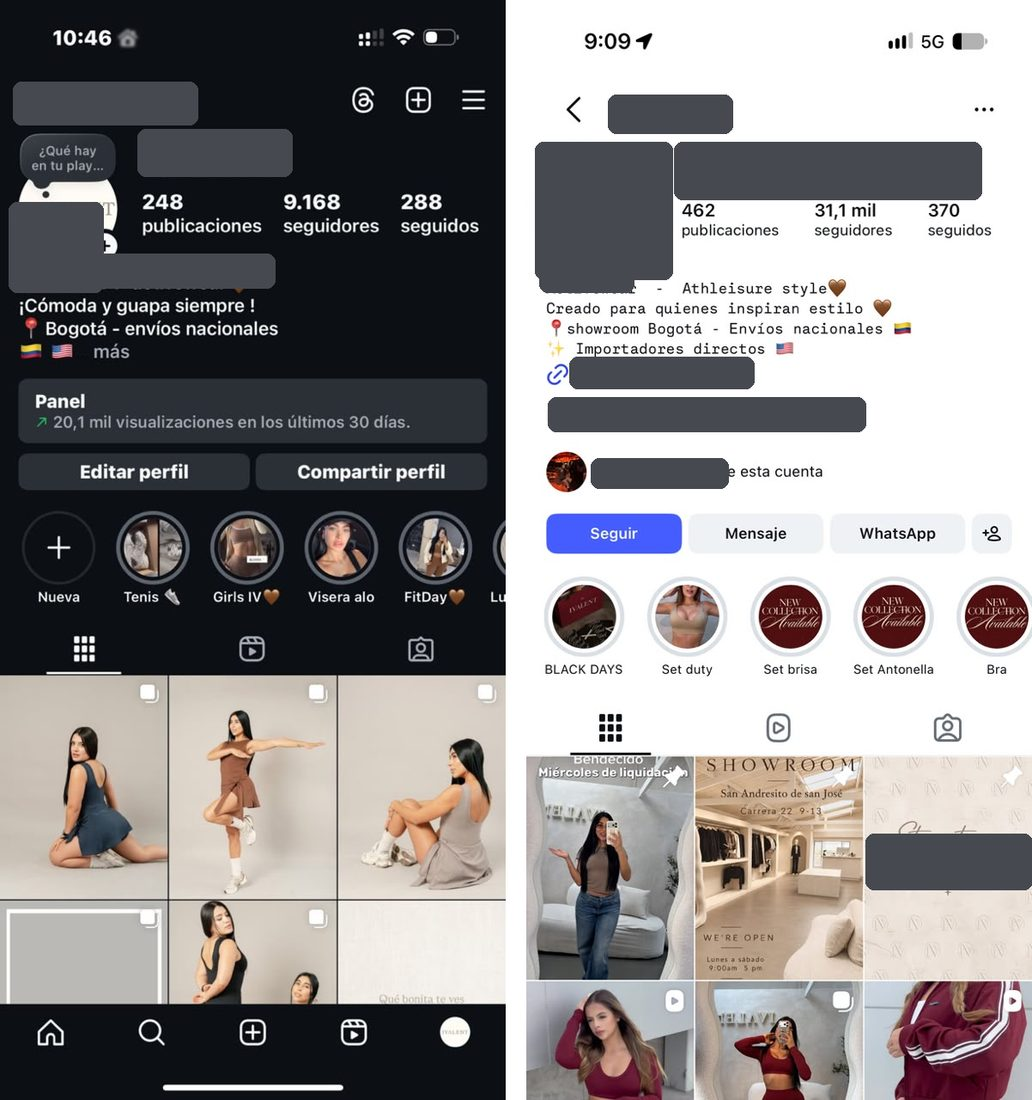
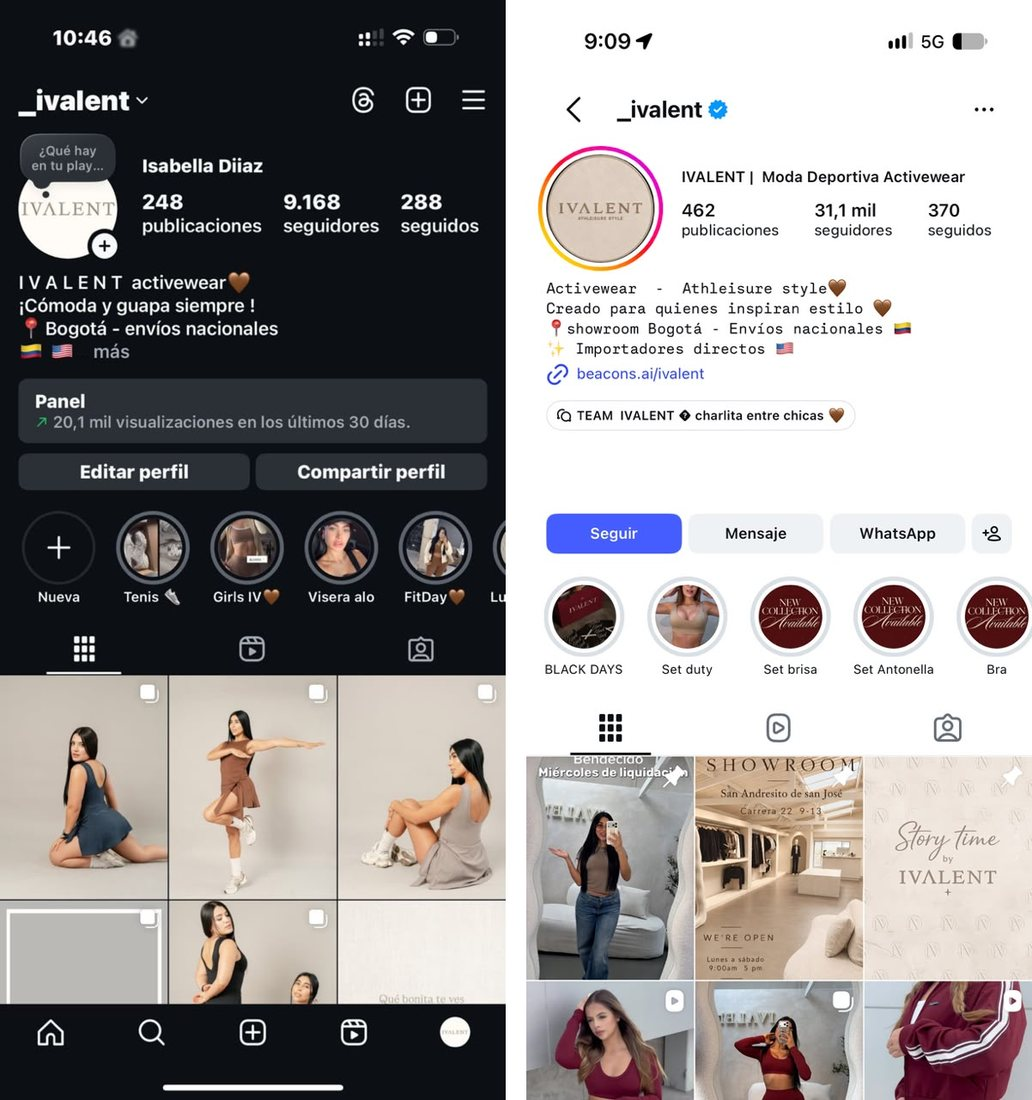
Carrusel: IVALENT antes y después sin tapar el perfil (pedido de Juanca) (#6)
Claude-Session: https://claude.ai/code/session_01WA3Qa2ei6ae4Box3kafeyR

diff --git a/index.html b/index.html
@@ -116,7 +116,7 @@
     <h2 class="heading-3 reveal" style="text-align:center;margin-bottom:var(--space-md);">Resultados reales<br/>de nuestros clientes</h2>
     <p class="body-text reveal" style="text-align:center;max-width:560px;margin:0 auto var(--space-2xl);">Capturas de conversaciones y reportes de ventas. Toca una para verla en grande.</p>
   </div>
-  <div class="stories-wrapper"><div class="stories-track" id="storiesTrack"><button class="story-item" type="button" data-full="/assets/historias/ivalent.jpg" aria-label="Ampliar historia de éxito"><img src="/assets/historias/ivalent.jpg" alt="Antes y después del perfil de Instagram de un cliente de ropa deportiva: de 9.168 a 31,1 mil seguidores" width="1032" height="1100" decoding="async"/></button><button class="story-item" type="button" data-full="/assets/historias/graficas.jpg" aria-label="Ampliar historia de éxito"><img src="/assets/historias/graficas.jpg" alt="Gráficas de inversión frente a ventas en 2026 de clientes reales" width="1762" height="700" decoding="async"/></button><button class="story-item" type="button" data-full="/assets/historias/h03.jpg" aria-label="Ampliar historia de éxito"><img src="/assets/historias/h03.jpg" alt="Captura real de resultados de ventas de un cliente" width="858" height="1100" decoding="async"/></button><button class="story-item" type="button" data-full="/assets/historias/h04.jpg" aria-label="Ampliar historia de éxito"><img src="/assets/historias/h04.jpg" alt="Captura real de resultados de ventas de un cliente" width="625" height="1100" decoding="async"/></button><button class="story-item" type="button" data-full="/assets/historias/h05.jpg" aria-label="Ampliar historia de éxito"><img src="/assets/historias/h05.jpg" alt="Captura real de resultados de ventas de un cliente" width="507" height="1100" decoding="async"/></button><button class="story-item" type="button" data-full="/assets/historias/h06.jpg" aria-label="Ampliar historia de éxito"><img src="/assets/historias/h06.jpg" alt="Captura real de resultados de ventas de un cliente" width="507" height="1100" decoding="async"/></button><button class="story-item" type="button" data-full="/assets/historias/h07.jpg" aria-label="Ampliar historia de éxito"><img src="/assets/historias/h07.jpg" alt="Captura real de resultados de ventas de un cliente" width="507" height="1100" decoding="async"/></button><button class="story-item" type="button" data-full="/assets/historias/h08.jpg" aria-label="Ampliar historia de éxito"><img src="/assets/historias/h08.jpg" alt="Captura real de resultados de ventas de un cliente" width="507" height="1100" decoding="async"/></button><button class="story-item" type="button" data-full="/assets/historias/h09.jpg" aria-label="Ampliar historia de éxito"><img src="/assets/historias/h09.jpg" alt="Captura real de resultados de ventas de un cliente" width="507" height="1100" decoding="async"/></button><button class="story-item" type="button" data-full="/assets/historias/h10.jpg" aria-label="Ampliar historia de éxito"><img src="/assets/historias/h10.jpg" alt="Captura real de resultados de ventas de un cliente" width="507" height="1100" decoding="async"/></button><button class="story-item" type="button" data-full="/assets/historias/h11.jpg" aria-label="Ampliar historia de éxito"><img src="/assets/historias/h11.jpg" alt="Captura real de resultados de ventas de un cliente" width="787" height="1100" decoding="async"/></button><button class="story-item" type="button" data-full="/assets/historias/pa.jpg" aria-label="Ampliar historia de éxito"><img src="/assets/historias/pa.jpg" alt="Captura real de resultados de ventas de un cliente" width="676" height="1100" decoding="async"/></button><button class="story-item" type="button" data-full="/assets/historias/pb.jpg" aria-label="Ampliar historia de éxito"><img src="/assets/historias/pb.jpg" alt="Captura real de resultados de ventas de un cliente" width="676" height="1100" decoding="async"/></button><button class="story-item" type="button" data-full="/assets/historias/pc.jpg" aria-label="Ampliar historia de éxito"><img src="/assets/historias/pc.jpg" alt="Captura real de resultados de ventas de un cliente" width="676" height="1100" decoding="async"/></button><button class="story-item" type="button" data-full="/assets/historias/pd.jpg" aria-label="Ampliar historia de éxito"><img src="/assets/historias/pd.jpg" alt="Captura real de resultados de ventas de un cliente" width="676" height="1100" decoding="async"/></button><button class="story-item" type="button" data-full="/assets/historias/pe.jpg" aria-label="Ampliar historia de éxito"><img src="/assets/historias/pe.jpg" alt="Captura real de resultados de ventas de un cliente" width="676" height="1100" decoding="async"/></button><button class="story-item" type="button" data-full="/assets/historias/pf.jpg" aria-label="Ampliar historia de éxito"><img src="/assets/historias/pf.jpg" alt="Captura real de resultados de ventas de un cliente" width="676" height="1100" decoding="async"/></button><button class="story-item" type="button" data-full="/assets/historias/pg.jpg" aria-label="Ampliar historia de éxito"><img src="/assets/historias/pg.jpg" alt="Captura real de resultados de ventas de un cliente" width="676" height="1100" decoding="async"/></button><button class="story-item" type="button" data-full="/assets/historias/ph.jpg" aria-label="Ampliar historia de éxito"><img src="/assets/historias/ph.jpg" alt="Captura real de resultados de ventas de un cliente" width="676" height="1100" decoding="async"/></button></div></div>
+  <div class="stories-wrapper"><div class="stories-track" id="storiesTrack"><button class="story-item" type="button" data-full="/assets/historias/ivalent.jpg" aria-label="Ampliar historia de éxito"><img src="/assets/historias/ivalent.jpg" alt="Antes y después del perfil de Instagram de IVALENT: de 9.168 a 31,1 mil seguidores" width="1032" height="1100" decoding="async"/></button><button class="story-item" type="button" data-full="/assets/historias/graficas.jpg" aria-label="Ampliar historia de éxito"><img src="/assets/historias/graficas.jpg" alt="Gráficas de inversión frente a ventas en 2026 de clientes reales" width="1762" height="700" decoding="async"/></button><button class="story-item" type="button" data-full="/assets/historias/h03.jpg" aria-label="Ampliar historia de éxito"><img src="/assets/historias/h03.jpg" alt="Captura real de resultados de ventas de un cliente" width="858" height="1100" decoding="async"/></button><button class="story-item" type="button" data-full="/assets/historias/h04.jpg" aria-label="Ampliar historia de éxito"><img src="/assets/historias/h04.jpg" alt="Captura real de resultados de ventas de un cliente" width="625" height="1100" decoding="async"/></button><button class="story-item" type="button" data-full="/assets/historias/h05.jpg" aria-label="Ampliar historia de éxito"><img src="/assets/historias/h05.jpg" alt="Captura real de resultados de ventas de un cliente" width="507" height="1100" decoding="async"/></button><button class="story-item" type="button" data-full="/assets/historias/h06.jpg" aria-label="Ampliar historia de éxito"><img src="/assets/historias/h06.jpg" alt="Captura real de resultados de ventas de un cliente" width="507" height="1100" decoding="async"/></button><button class="story-item" type="button" data-full="/assets/historias/h07.jpg" aria-label="Ampliar historia de éxito"><img src="/assets/historias/h07.jpg" alt="Captura real de resultados de ventas de un cliente" width="507" height="1100" decoding="async"/></button><button class="story-item" type="button" data-full="/assets/historias/h08.jpg" aria-label="Ampliar historia de éxito"><img src="/assets/historias/h08.jpg" alt="Captura real de resultados de ventas de un cliente" width="507" height="1100" decoding="async"/></button><button class="story-item" type="button" data-full="/assets/historias/h09.jpg" aria-label="Ampliar historia de éxito"><img src="/assets/historias/h09.jpg" alt="Captura real de resultados de ventas de un cliente" width="507" height="1100" decoding="async"/></button><button class="story-item" type="button" data-full="/assets/historias/h10.jpg" aria-label="Ampliar historia de éxito"><img src="/assets/historias/h10.jpg" alt="Captura real de resultados de ventas de un cliente" width="507" height="1100" decoding="async"/></button><button class="story-item" type="button" data-full="/assets/historias/h11.jpg" aria-label="Ampliar historia de éxito"><img src="/assets/historias/h11.jpg" alt="Captura real de resultados de ventas de un cliente" width="787" height="1100" decoding="async"/></button><button class="story-item" type="button" data-full="/assets/historias/pa.jpg" aria-label="Ampliar historia de éxito"><img src="/assets/historias/pa.jpg" alt="Captura real de resultados de ventas de un cliente" width="676" height="1100" decoding="async"/></button><button class="story-item" type="button" data-full="/assets/historias/pb.jpg" aria-label="Ampliar historia de éxito"><img src="/assets/historias/pb.jpg" alt="Captura real de resultados de ventas de un cliente" width="676" height="1100" decoding="async"/></button><button class="story-item" type="button" data-full="/assets/historias/pc.jpg" aria-label="Ampliar historia de éxito"><img src="/assets/historias/pc.jpg" alt="Captura real de resultados de ventas de un cliente" width="676" height="1100" decoding="async"/></button><button class="story-item" type="button" data-full="/assets/historias/pd.jpg" aria-label="Ampliar historia de éxito"><img src="/assets/historias/pd.jpg" alt="Captura real de resultados de ventas de un cliente" width="676" height="1100" decoding="async"/></button><button class="story-item" type="button" data-full="/assets/historias/pe.jpg" aria-label="Ampliar historia de éxito"><img src="/assets/historias/pe.jpg" alt="Captura real de resultados de ventas de un cliente" width="676" height="1100" decoding="async"/></button><button class="story-item" type="button" data-full="/assets/historias/pf.jpg" aria-label="Ampliar historia de éxito"><img src="/assets/historias/pf.jpg" alt="Captura real de resultados de ventas de un cliente" width="676" height="1100" decoding="async"/></button><button class="story-item" type="button" data-full="/assets/historias/pg.jpg" aria-label="Ampliar historia de éxito"><img src="/assets/historias/pg.jpg" alt="Captura real de resultados de ventas de un cliente" width="676" height="1100" decoding="async"/></button><button class="story-item" type="button" data-full="/assets/historias/ph.jpg" aria-label="Ampliar historia de éxito"><img src="/assets/historias/ph.jpg" alt="Captura real de resultados de ventas de un cliente" width="676" height="1100" decoding="async"/></button></div></div>
 </section>
 <div class="story-modal" id="storyModal" hidden role="dialog" aria-modal="true" aria-label="Historia de éxito ampliada"><button class="story-close" type="button" aria-label="Cerrar">&times;</button><img alt="Historia de éxito ampliada"/></div>
 <footer>
